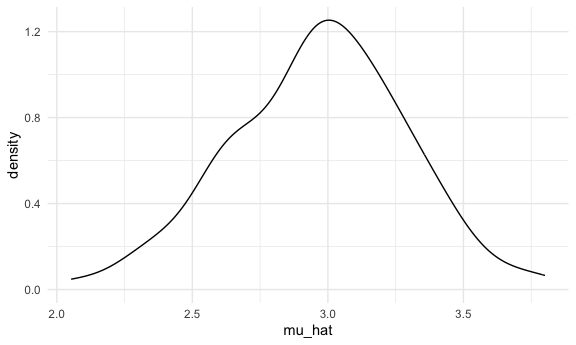
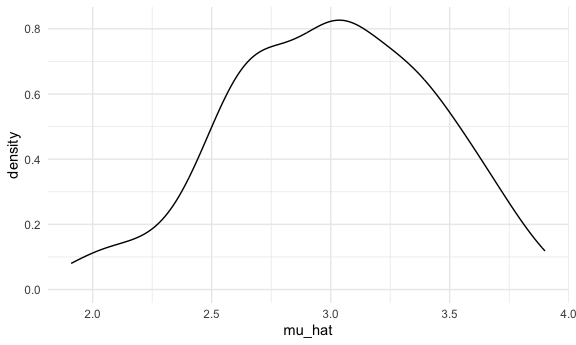
viz of mean_and_sd; sim_regression; birthday problem!

diff --git a/simulation.md b/simulation.md
@@ -18,7 +18,7 @@ sim_mean_sd(n_subj = 400)
     ## # A tibble: 1 × 2
     ##   mu_hat sigma_hat
     ##    <dbl>     <dbl>
-    ## 1   3.11      1.92
+    ## 1   3.03      2.02
 
 can i “verify” the central limit theorem?
 
@@ -46,11 +46,202 @@ Try to repeat with a map statement.
 ``` r
 sim_results_df = 
   expand_grid(
-    sample_size = 30,
-    iter = 1:100
+    sample_size = c(30, 60, 90, 120),
+    iter = 1:1000
   ) |> 
   mutate(
     results = map(sample_size, sim_mean_sd)
   ) |> 
   unnest(results)
 ```
+
+Let’s look at this:
+
+``` r
+sim_results_df |> 
+  mutate(
+    sample_size = str_c("n = ", sample_size),
+    sample_size = fct_inorder(sample_size)
+  ) |> 
+  ggplot(aes(x = sample_size, y = mu_hat)) + 
+  geom_violin()
+```
+
+<img src="simulation_files/figure-gfm/unnamed-chunk-6-1.png" width="90%" />
+
+Let’s try to summarize ..
+
+``` r
+sim_results_df |> 
+  group_by(sample_size) |> 
+  summarize(
+    emp_mean = mean(mu_hat),
+    emp_se = sd(mu_hat)
+  )
+```
+
+    ## # A tibble: 4 × 3
+    ##   sample_size emp_mean emp_se
+    ##         <dbl>    <dbl>  <dbl>
+    ## 1          30     2.99  0.368
+    ## 2          60     3.01  0.260
+    ## 3          90     3.01  0.211
+    ## 4         120     3.00  0.189
+
+## Simple linear regression
+
+``` r
+sim_df = 
+  tibble(
+    x = rnorm(30, mean = 1, sd = 1),
+    y = 2 + 3 * x + rnorm(30, 0, 1)
+  )
+
+sim_df |> 
+  ggplot(aes(x = x, y = y)) + 
+  geom_point()
+```
+
+<img src="simulation_files/figure-gfm/unnamed-chunk-8-1.png" width="90%" />
+
+``` r
+slr_fit = lm(y ~ x, data = sim_df)
+
+coef(slr_fit)
+```
+
+    ## (Intercept)           x 
+    ##    1.774368    3.341566
+
+turn this into a function
+
+``` r
+sim_regression = function(n_subj, beta_0 = 2, beta_1 = 3) {
+  
+  sim_df = 
+    tibble(
+      x = rnorm(n_subj, mean = 1, sd = 1),
+      y = beta_0 + beta_1 * x + rnorm(n_subj, 0, 1)
+    )
+
+  slr_fit = lm(y ~ x, data = sim_df)
+
+  tibble(
+    beta0_hat = coef(slr_fit)[1],
+    beta1_hat = coef(slr_fit)[2]
+  )
+}
+```
+
+``` r
+sim_regression(n_subj = 30)
+```
+
+    ## # A tibble: 1 × 2
+    ##   beta0_hat beta1_hat
+    ##       <dbl>     <dbl>
+    ## 1      2.08      2.91
+
+``` r
+output = vector("list", length = 500)
+
+for (i in 1:500) {
+  
+  output[[i]] = sim_regression(n_subj = 30)
+  
+}
+
+output |> 
+  bind_rows()
+```
+
+    ## # A tibble: 500 × 2
+    ##    beta0_hat beta1_hat
+    ##        <dbl>     <dbl>
+    ##  1      2.22      2.99
+    ##  2      2.15      3.21
+    ##  3      1.97      3.05
+    ##  4      2.25      2.79
+    ##  5      1.97      3.00
+    ##  6      1.94      3.02
+    ##  7      2.19      2.79
+    ##  8      2.25      2.85
+    ##  9      1.83      2.95
+    ## 10      2.00      2.89
+    ## # ℹ 490 more rows
+
+``` r
+slr_sim_results_df = 
+  expand_grid(
+    sample_size = 30, 
+    iter = 1:500
+  ) |> 
+  mutate(
+    results = map(sample_size, sim_regression)
+  ) |> 
+  unnest(results)
+
+slr_sim_results_df |> 
+  ggplot(aes(x = beta0_hat, y = beta1_hat)) + 
+  geom_point()
+```
+
+<img src="simulation_files/figure-gfm/unnamed-chunk-12-1.png" width="90%" />
+
+## One more example!
+
+``` r
+birthdays = sample(1:365, 5, replace = TRUE)
+
+repeated_bday = length(unique(birthdays)) < 5
+
+repeated_bday
+```
+
+    ## [1] FALSE
+
+put this in a function
+
+``` r
+bday_sim = function(n_room) {
+  
+  birthdays = sample(1:365, n_room, replace = TRUE)
+
+  repeated_bday = length(unique(birthdays)) < n_room
+
+  repeated_bday
+  
+}
+
+bday_sim(20)
+```
+
+    ## [1] FALSE
+
+``` r
+bday_sim_results = 
+  expand_grid(
+    bdays = 5:50, 
+    iter = 1:2500
+  ) |> 
+  mutate(
+    result = map_lgl(bdays, bday_sim)
+  ) |> 
+  group_by(
+    bdays
+  ) |> 
+  summarize(
+    prob_repeat = mean(result)
+  )
+```
+
+plot this
+
+``` r
+bday_sim_results |> 
+  ggplot(aes(x = bdays, y = prob_repeat)) + 
+  geom_point() + 
+  geom_line()
+```
+
+<img src="simulation_files/figure-gfm/unnamed-chunk-16-1.png" width="90%" />
